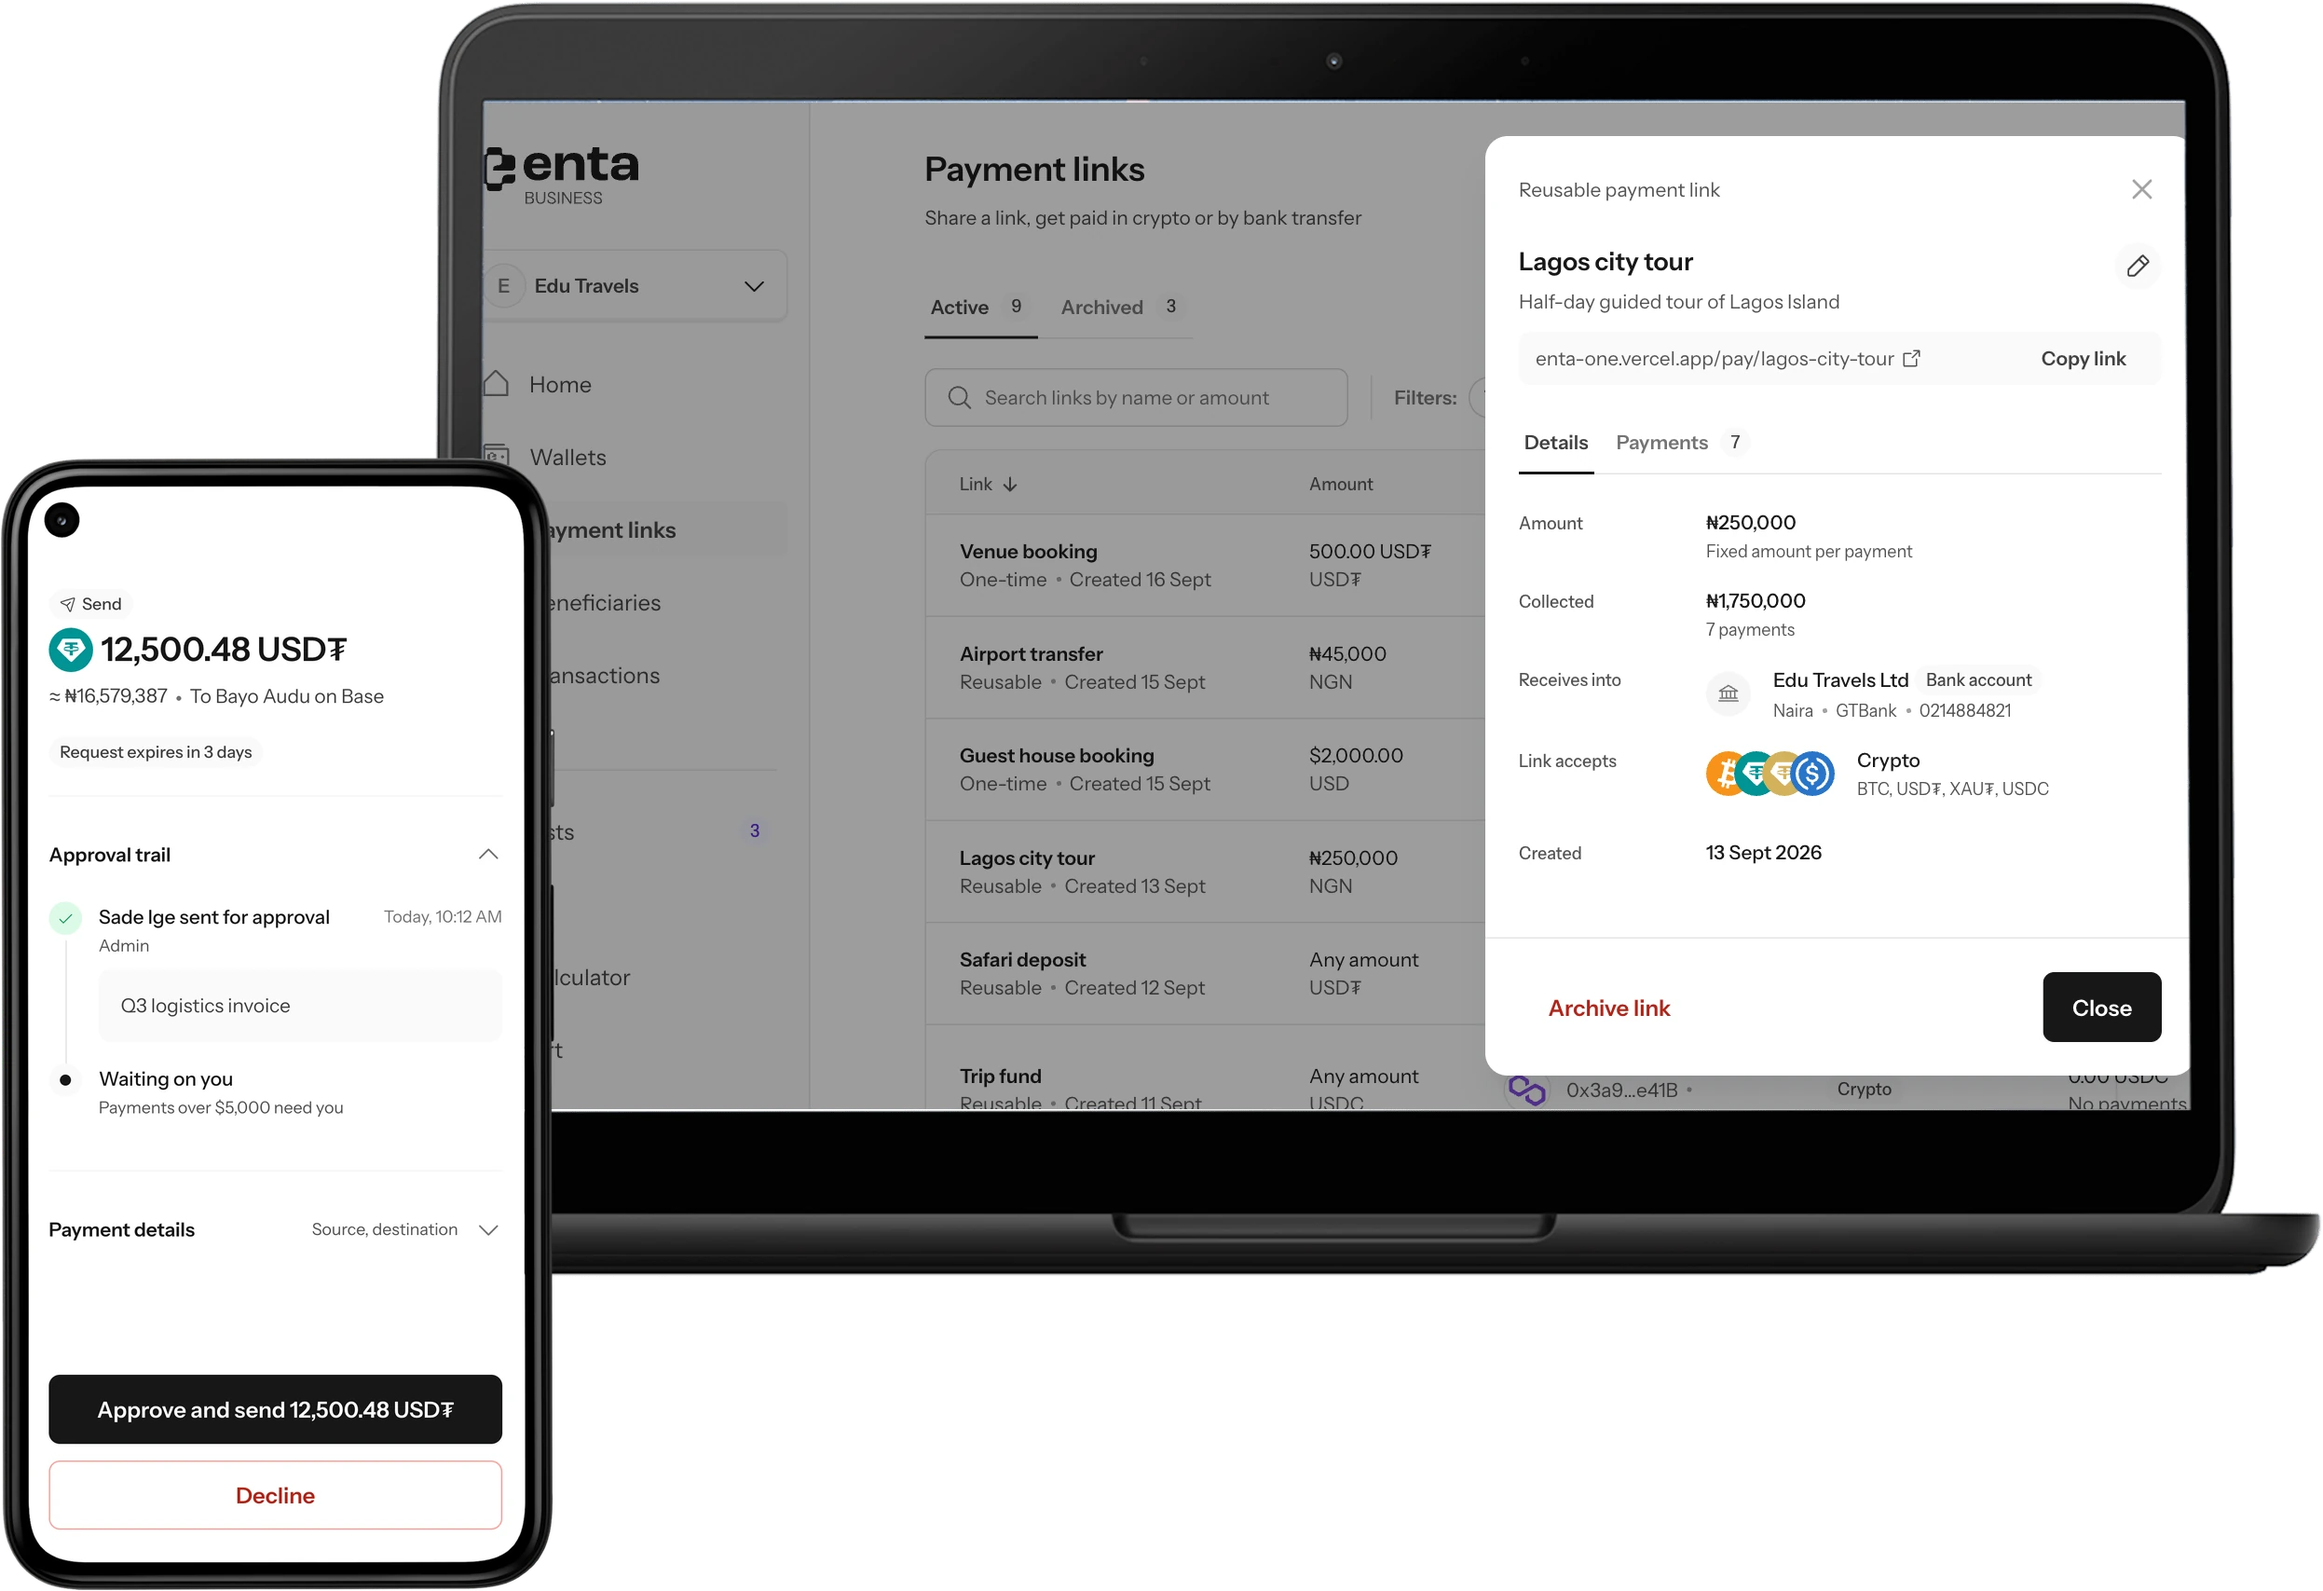
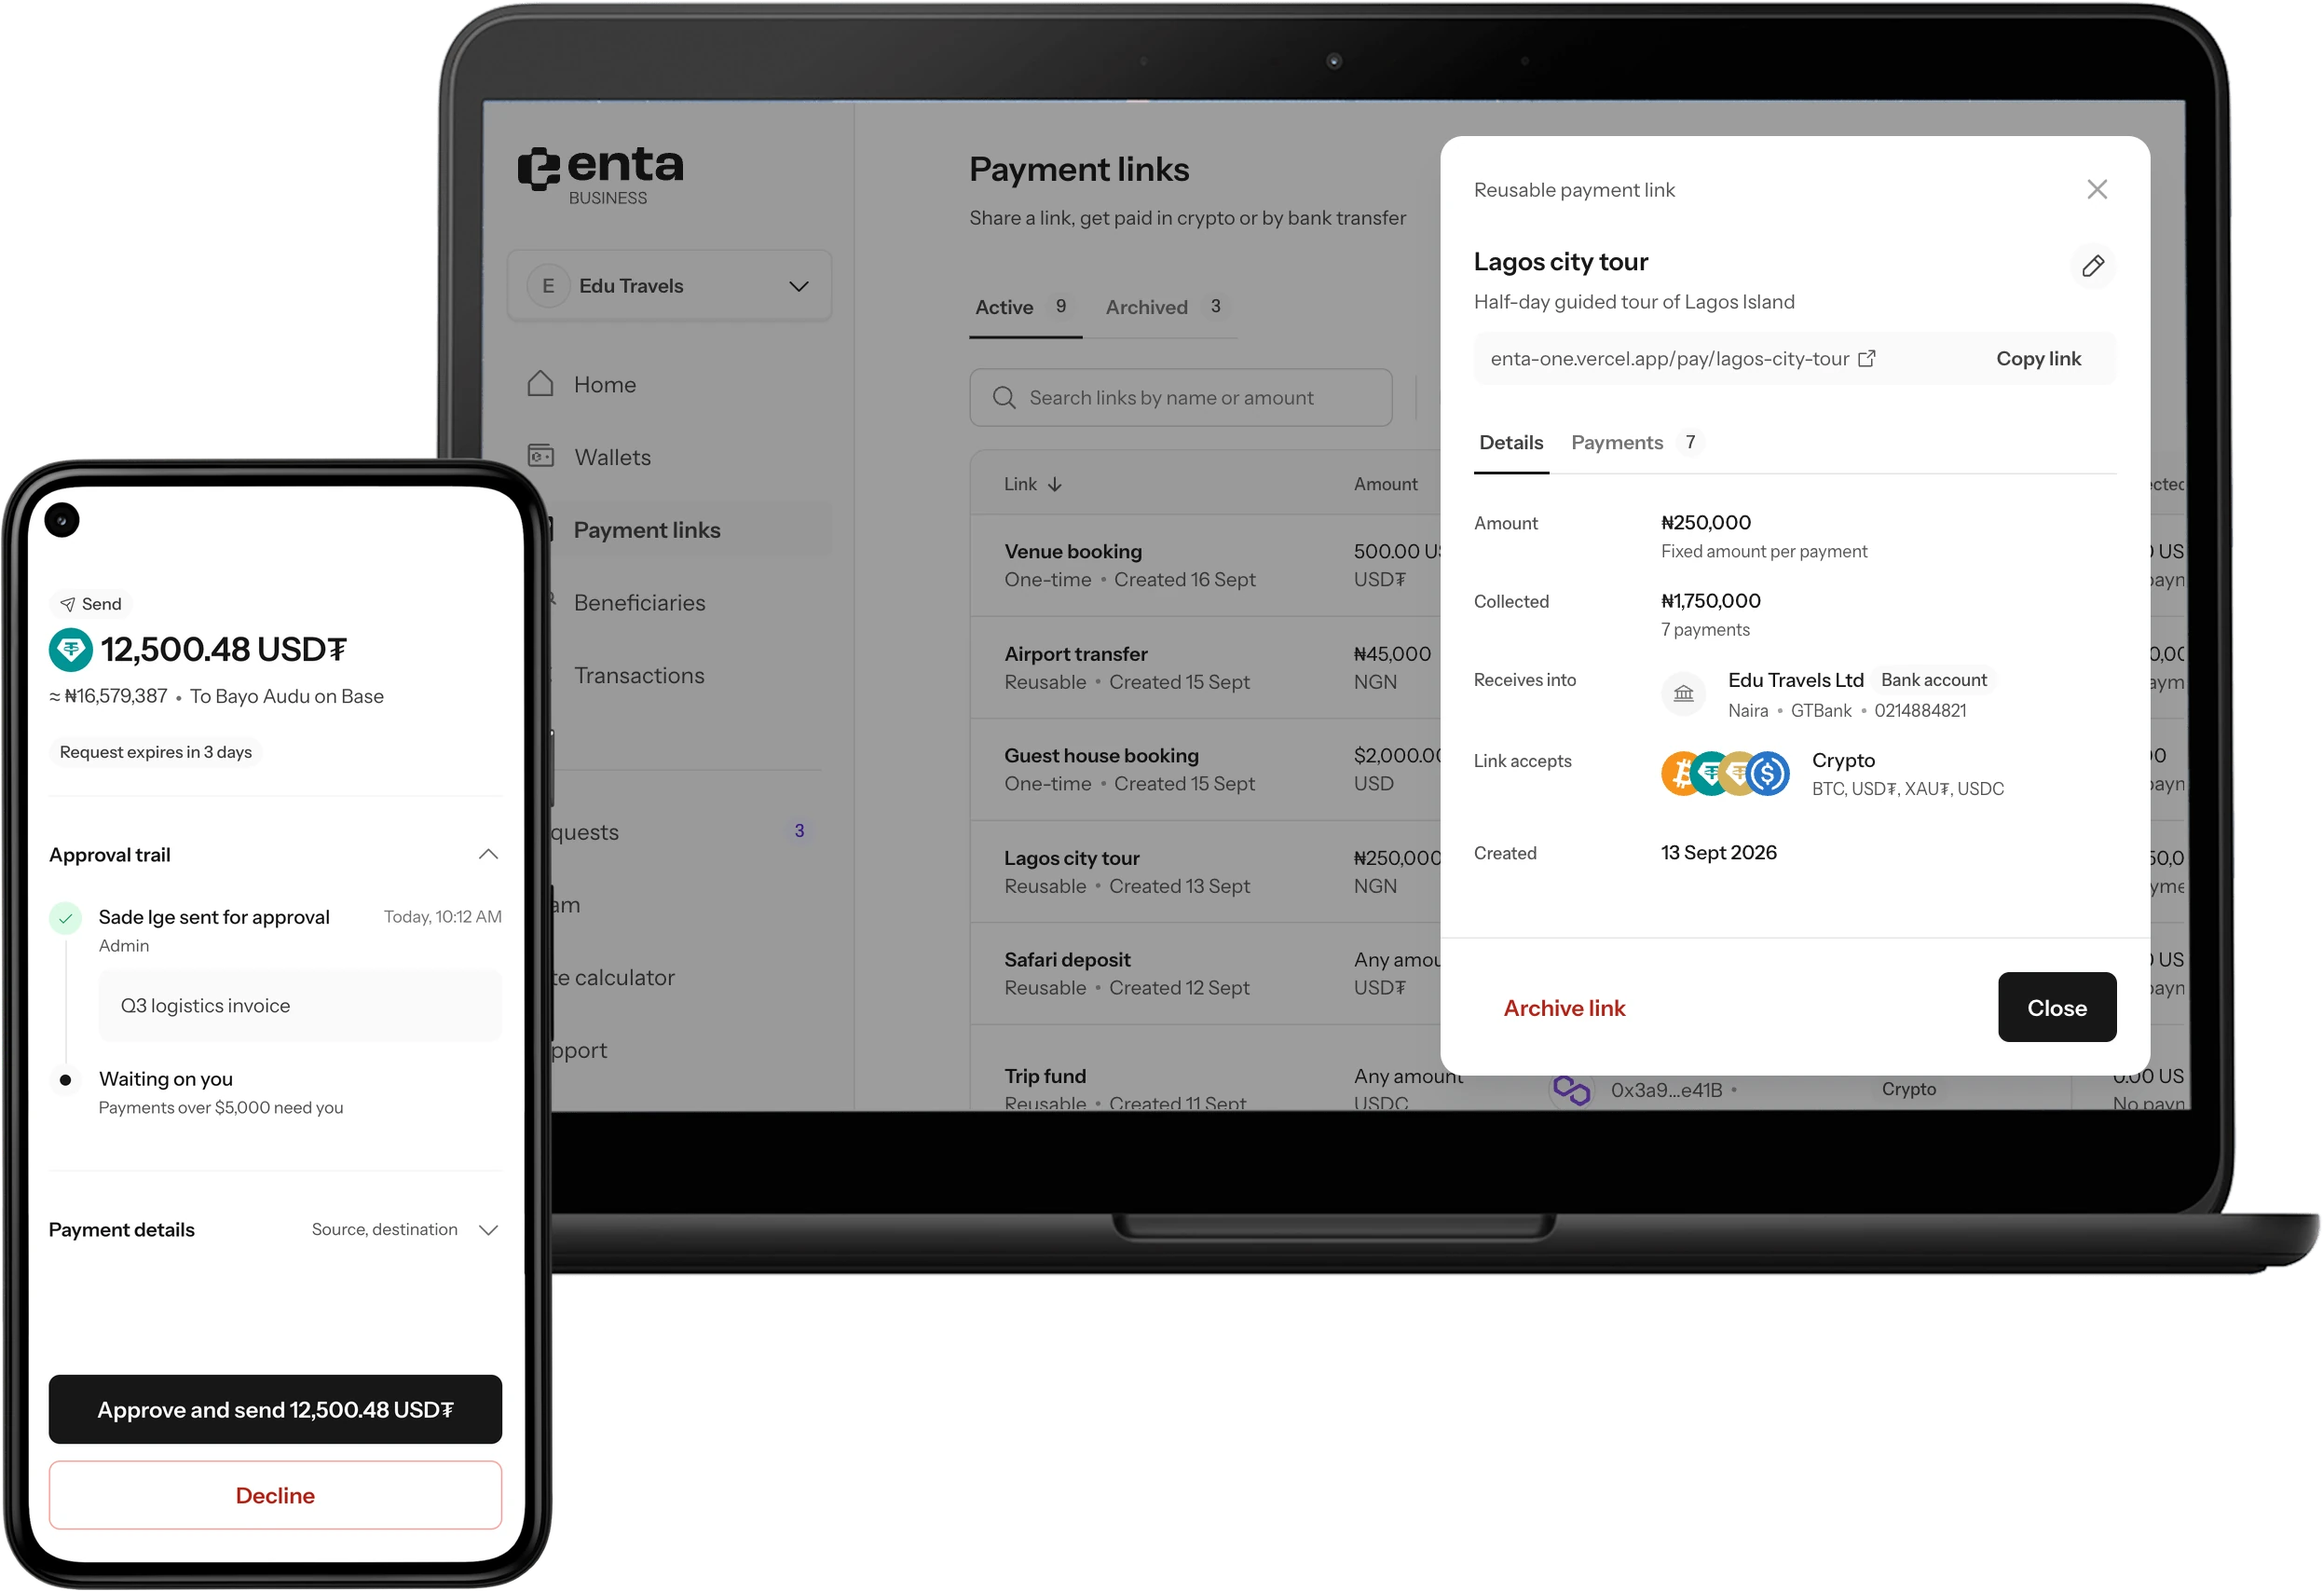
List the Agile AI-driven design case study on Home and /work
- Show the whole laptop screen in the hero: recapture Payment links at 1216 by 720 at 1.5x and place it unscaled in the Pixelbook Go's opening, so the bezel no longer hides the Enta mark or the drawer's right edge
- Credit the device art (Android Device Art Generator, CC BY 4.0) at the end of the article, above Next case study
- Add the case study third on /work and first in "Design systems and AI tools" on Home, with a card image made from the hero; share the page's H1 with the card through agileHeadline
- Index /work/agile-ai-driven-design through the shared case study helpers: search title and description, canonical URL, share image and JSON-LD, no noindex
- Add the route to the page title and footer navigation checks

diff --git a/app/data/productionHomeProjects.js b/app/data/productionHomeProjects.js
@@ -7,9 +7,12 @@
 // companyName gives /work and the share image both companies. Cards without companyLogos show their single companyLogo.
 // Card tags (attributes) trimmed to at most three on 6 November 2026: no “Shipped” (all of them are) and none that repeat the Home group.
 // The owner asked for four tags on Carbon (adding Fintech) and Shiga onboarding (adding B2B) on 7 November 2026.
+// The Agile AI-driven design case study (Cowork, T16, 18 November 2026) is listed third, after Helium, and first in
+// “Design systems and AI tools” on Home; its title is the page's H1 (agileHeadline).
 // Other cards retain their verified production destinations and order.
 export const pulseHeadline = 'AI-Native Design Engineering: A Payment Product in Five Days';
 export const heliumHeadline = 'Design System Engineering: Owning Helium from Figma Library to Production Code';
+export const agileHeadline = 'Agile AI-Driven Design: Design Judgment, Written for Agents';
 export const rewardsHeadline = 'Designing Rewards for Growth at Carbon and Branch: Loyalty Tiers, Cashback and Referrals';
 
 export const productionHomeProjects = [
@@ -34,6 +37,19 @@ export const productionHomeProjects = [
     image: '/home/live-work/helium-layered.png',
     imageAlt: 'Helium’s Figma library cover with its Storybook Button documentation',
     href: 'https://olumideolusesi.com/work/helium',
+    companyLogo: '/home/work-logos/shiga.svg',
+    companyLogoAlt: 'Shiga',
+    companyLogoWidth: 1047,
+    companyLogoHeight: 291,
+  },
+  {
+    id: 'agile-ai-driven-design',
+    title: agileHeadline,
+    description: 'How I design and prototype Shiga’s products with AI agents, from documentation and Figma to live prototypes Engineering builds from, with QA against production.',
+    attributes: ['AI Tools', 'Prototyping'],
+    image: '/home/live-work/agile-layered.png',
+    imageAlt: 'The Enta prototype on a Pixelbook Go and a Pixel 5: a payment link’s details on the laptop and a Multisig request on the phone',
+    href: 'https://olumideolusesi.com/work/agile-ai-driven-design',
     companyLogo: '/home/work-logos/shiga.svg',
     companyLogoAlt: 'Shiga',
     companyLogoWidth: 1047,
@@ -151,7 +167,7 @@ export const homeWorkGroups = [
     id: 'design-systems-ai',
     title: 'Design systems and AI tools',
     intro: 'Foundations and tools that help teams ship consistent work.',
-    projectIds: ['helium', 'ai-copywriting', 'branch-ai'],
+    projectIds: ['agile-ai-driven-design', 'helium', 'ai-copywriting', 'branch-ai'],
   },
   {
     id: 'growth-retention',

diff --git a/app/work/agile-ai-driven-design/page.js b/app/work/agile-ai-driven-design/page.js
@@ -7,9 +7,9 @@ import ZoomableImage from '../pulse/PulseImage'
 import HeroMedia from './HeroMedia'
 import FlowDiagram from './FlowDiagram'
 import styles from './agile.module.css'
-import { heliumHeadline } from '../../data/productionHomeProjects'
+import { agileHeadline, heliumHeadline } from '../../data/productionHomeProjects'
 
-// Copy: HANDOVER.md “T15 copy” (approved by Olumide, 18 Nov 2026). Unlisted until he approves the page.
+// Copy: HANDOVER.md “T15 copy” (approved by Olumide, 18 Nov 2026). Listed on Home and /work since T16; the H1 is shared with the card.
 const phases = [
   { id: 'overview', label: 'At a glance' },
   { id: 'start', label: 'Where it started' },
@@ -104,7 +104,7 @@ export default function AgileCaseStudy() {
       <header className={styles.header}>
         <div className={styles.heroCopy}>
           <nav className={styles.breadcrumb} aria-label="Breadcrumb"><Link href="/#featured-work">Work</Link><span aria-hidden="true">/</span><span aria-current="page">Agile AI-driven design</span></nav>
-          <h1>Agile AI-Driven Design: Design Judgment, Written for Agents</h1>
+          <h1>{agileHeadline}</h1>
           <div className={styles.intro}><p>How I write my design judgment down so AI agents can design, build and check Shiga’s products with me, from documentation to production.</p></div>
         </div>
         <HeroMedia />
@@ -211,6 +211,7 @@ export default function AgileCaseStudy() {
           <Section id="next" title="Where I’m taking it next">
             <p>Move money on phones is next for the Enta prototypes. And the workflow travels. The skill sets up the same loop on a new project, with Figma or without it, and asks where the work deploys before anything ships.</p>
           </Section>
+          <p className={`${styles.qualification} ${styles.credit}`}>Device frames from Google’s <a className={styles.inlineLink} href="https://developer.android.com/distribute/marketing-tools/device-art-generator" target="_blank" rel="noreferrer">Android Device Art Generator</a>.</p>
           <nav className={styles.next} aria-label="Next case study"><span>Next case study</span><Link href="/work/helium">{heliumHeadline}</Link></nav>
         </article>
       </div>

diff --git a/lib/seo.js b/lib/seo.js
@@ -27,6 +27,7 @@ export const pageCopy = {
 const searchTitles = {
   pulse: pulseHeadline,
   helium: 'Helium: design system engineering from Figma to production code',
+  'agile-ai-driven-design': 'Agile AI-driven design: design judgment, written for agents',
   'shiga-onboarding': 'ENTA: passkey-led onboarding',
   carbon: 'Carbon: mobile banking UX and design systems',
   rewards: 'Carbon and Branch: growth design for rewards and referrals',
@@ -38,6 +39,7 @@ const searchTitles = {
 
 const searchDescriptions = {
   pulse: 'A five-day payments prototype connecting product strategy, AI prototyping, Figma, React and a coded design system, from checkout to developer tools.',
+  'agile-ai-driven-design': 'How I design and prototype Shiga’s products with AI agents, from documentation and Figma to live prototypes Engineering builds from, with QA against production.',
   helium: 'How Olumide built Helium, Shiga’s design system, so designers, engineers and AI coding agents build Enta and Pulse from the same foundations, components and rules.',
   carbon: 'UX research, interaction design and design systems for Carbon’s iOS and Android banking home, shaped through usability testing and engineering collaboration.',
   rewards: 'How I designed two rewards programs to grow product use: six loyalty tiers at Carbon, and cashback and referral rewards at Branch.',

diff --git a/app/work/agile-ai-driven-design/layout.js b/app/work/agile-ai-driven-design/layout.js
@@ -1,14 +1,8 @@
 import JsonLd from '../../components/JsonLd';
-import { pageMetadata, pageSchema } from '../../../lib/seo';
+import { caseStudyMetadata, caseStudySchema } from '../../../lib/seo';
 
-// Unlisted until Olumide approves it: no caseStudies entry, so the metadata and schema are built here.
-// pageMetadata adds “ | Lums” to the title.
-const title = 'Agile AI-driven design';
-const description = 'How I design and prototype Shiga’s products with AI agents, from documentation and Figma to live prototypes Engineering builds from, with QA against production.';
-const path = '/work/agile-ai-driven-design';
-
-export const metadata = pageMetadata({ title, description, path, type: 'article', noindex: true });
+export const metadata = caseStudyMetadata('agile-ai-driven-design');
 
 export default function CaseStudyLayout({ children }) {
-  return <><JsonLd data={pageSchema({ path, name: title, description })} />{children}</>;
+  return <><JsonLd data={caseStudySchema('agile-ai-driven-design')} />{children}</>;
 }

diff --git a/app/work/agile-ai-driven-design/HeroMedia.js b/app/work/agile-ai-driven-design/HeroMedia.js
@@ -7,7 +7,8 @@ import styles from './agile.module.css'
 // T15 V4: Google's device art (Android Device Art Generator, Pixelbook Go landscape and Pixel 5 portrait, back layers
 // only, no shadow or glare) with screens recaptured from enta-one.vercel.app, demo bar hidden. Each screen sits under
 // its device at the generator's offset; the laptop is at full size and the phone in front over its lower left. One
-// transparent image, so it sits on the hero surface in both themes.
+// transparent image, so it sits on the hero surface in both themes. T16: the laptop screen recaptured at the bezel's
+// opening (1216 by 720 at 1.5x, placed unscaled at 182, 158), so the bezel no longer hides its sides. Credit at the article's end.
 export default function HeroMedia() {
   const reducedMotion = useReducedMotion()
   return (

diff --git a/app/work/agile-ai-driven-design/agile.module.css b/app/work/agile-ai-driven-design/agile.module.css
@@ -103,6 +103,8 @@
 /* Overview: the jump link and the small note, as on Pulse */
 .resultLink { display:inline-block; margin-top:24px; font-size:13px; line-height:1.7; }
 .qualification { font-size:14px !important; line-height:1.65; color:var(--muted); }
+/* T16: the device art's credit (CC BY 4.0), at the end of the article above Next case study. */
+.credit { max-width:704px; margin:0 auto; }
 :global(html[data-theme='dark']) .openaiMark { filter:invert(1); }
 /* A link inside a sentence is underlined, so it doesn't rely on colour (as Pulse's text links). */
 .inlineLink { color:var(--ink); text-decoration:underline; text-decoration-thickness:1px; }

diff --git a/scripts/check-page-titles.py b/scripts/check-page-titles.py
@@ -17,7 +17,7 @@ parser.add_argument('origin')
 parser.add_argument('--protected', action='store_true')
 parser.add_argument('--output', type=Path)
 args = parser.parse_args()
-canonical = ['/', '/resume', '/work', '/work/pulse', '/work/helium', '/work/rewards', '/work/shiga-onboarding',
+canonical = ['/', '/resume', '/work', '/work/pulse', '/work/helium', '/work/agile-ai-driven-design', '/work/rewards', '/work/shiga-onboarding',
              '/work/carbon', '/work/ai-copywriting', '/work/branch-ai', '/work/sabi', '/work/uba']
 archives = ['/work/branch-ai-v1', '/work/branch-ai-original-v1', '/work/shiga-onboarding-v1']
 missing = ['/this-page-does-not-exist', '/work/this-project-does-not-exist']
